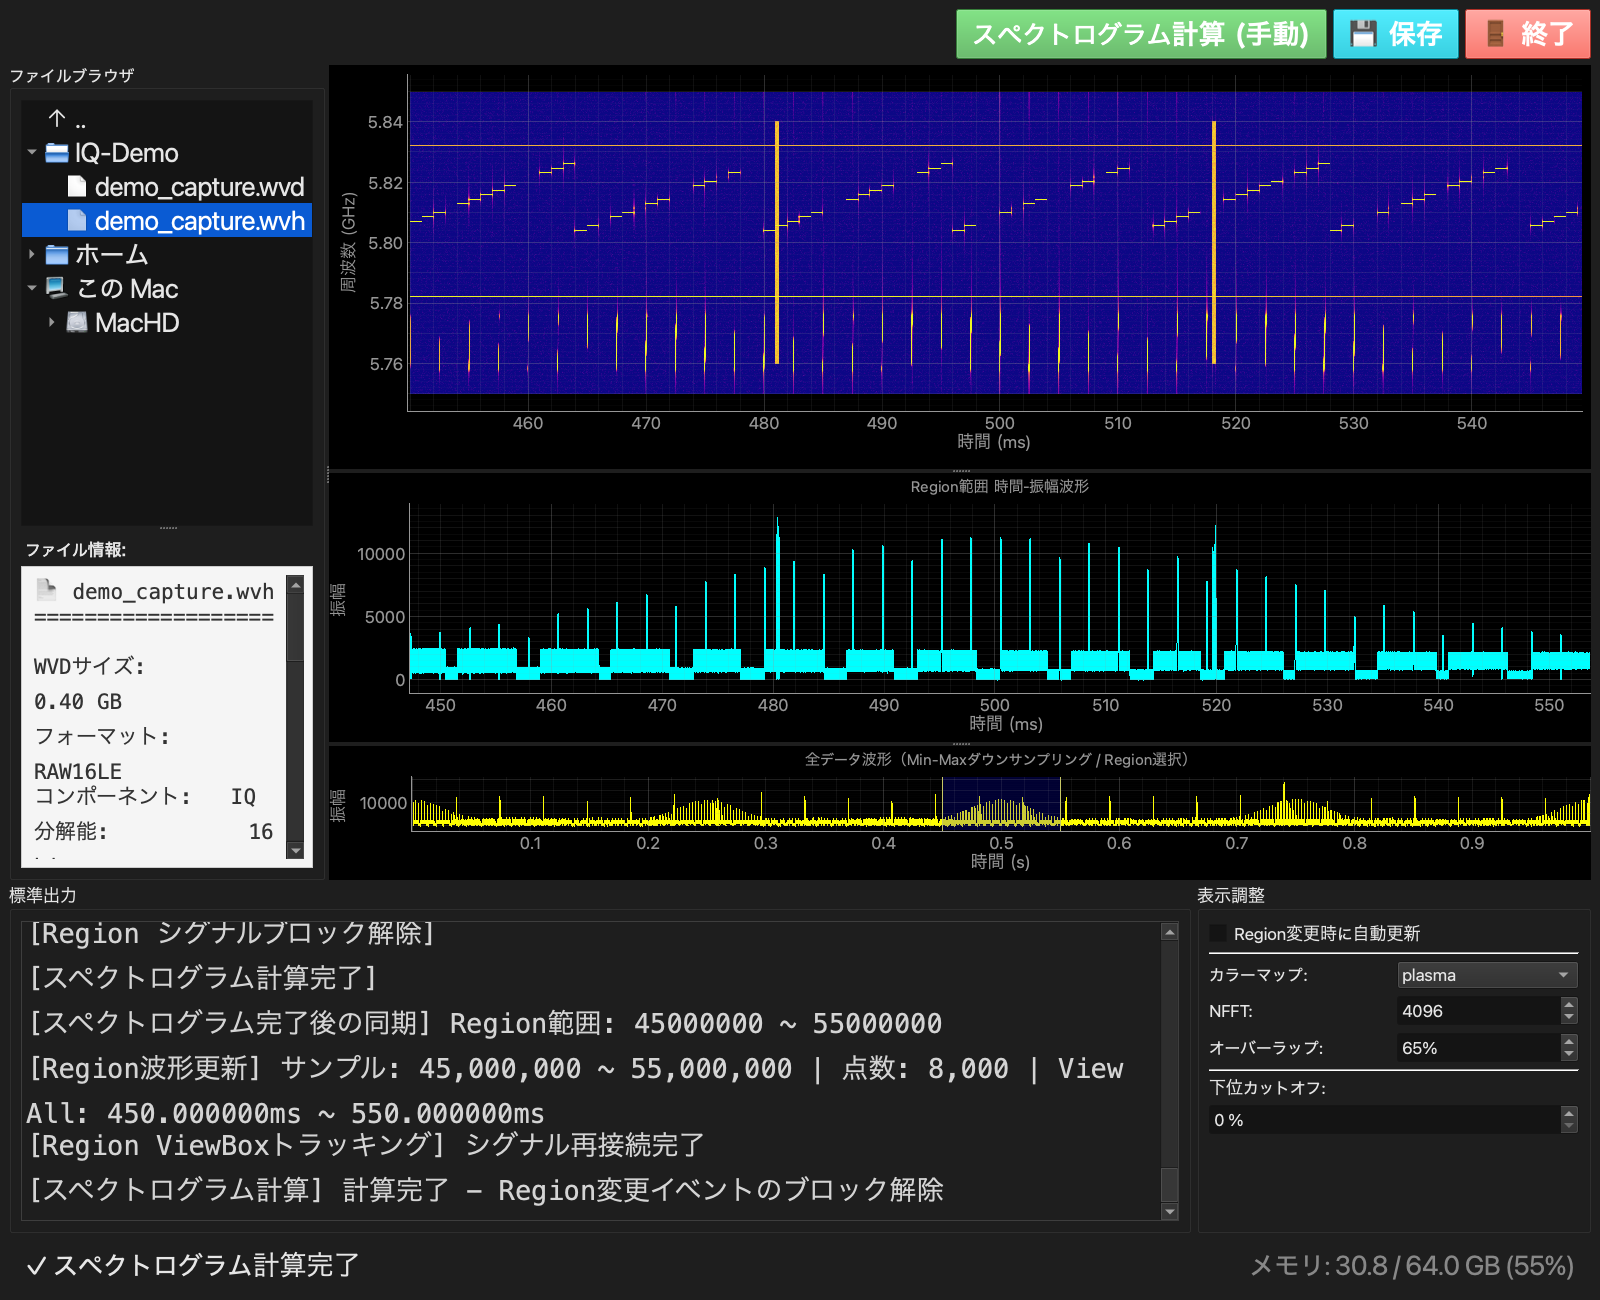
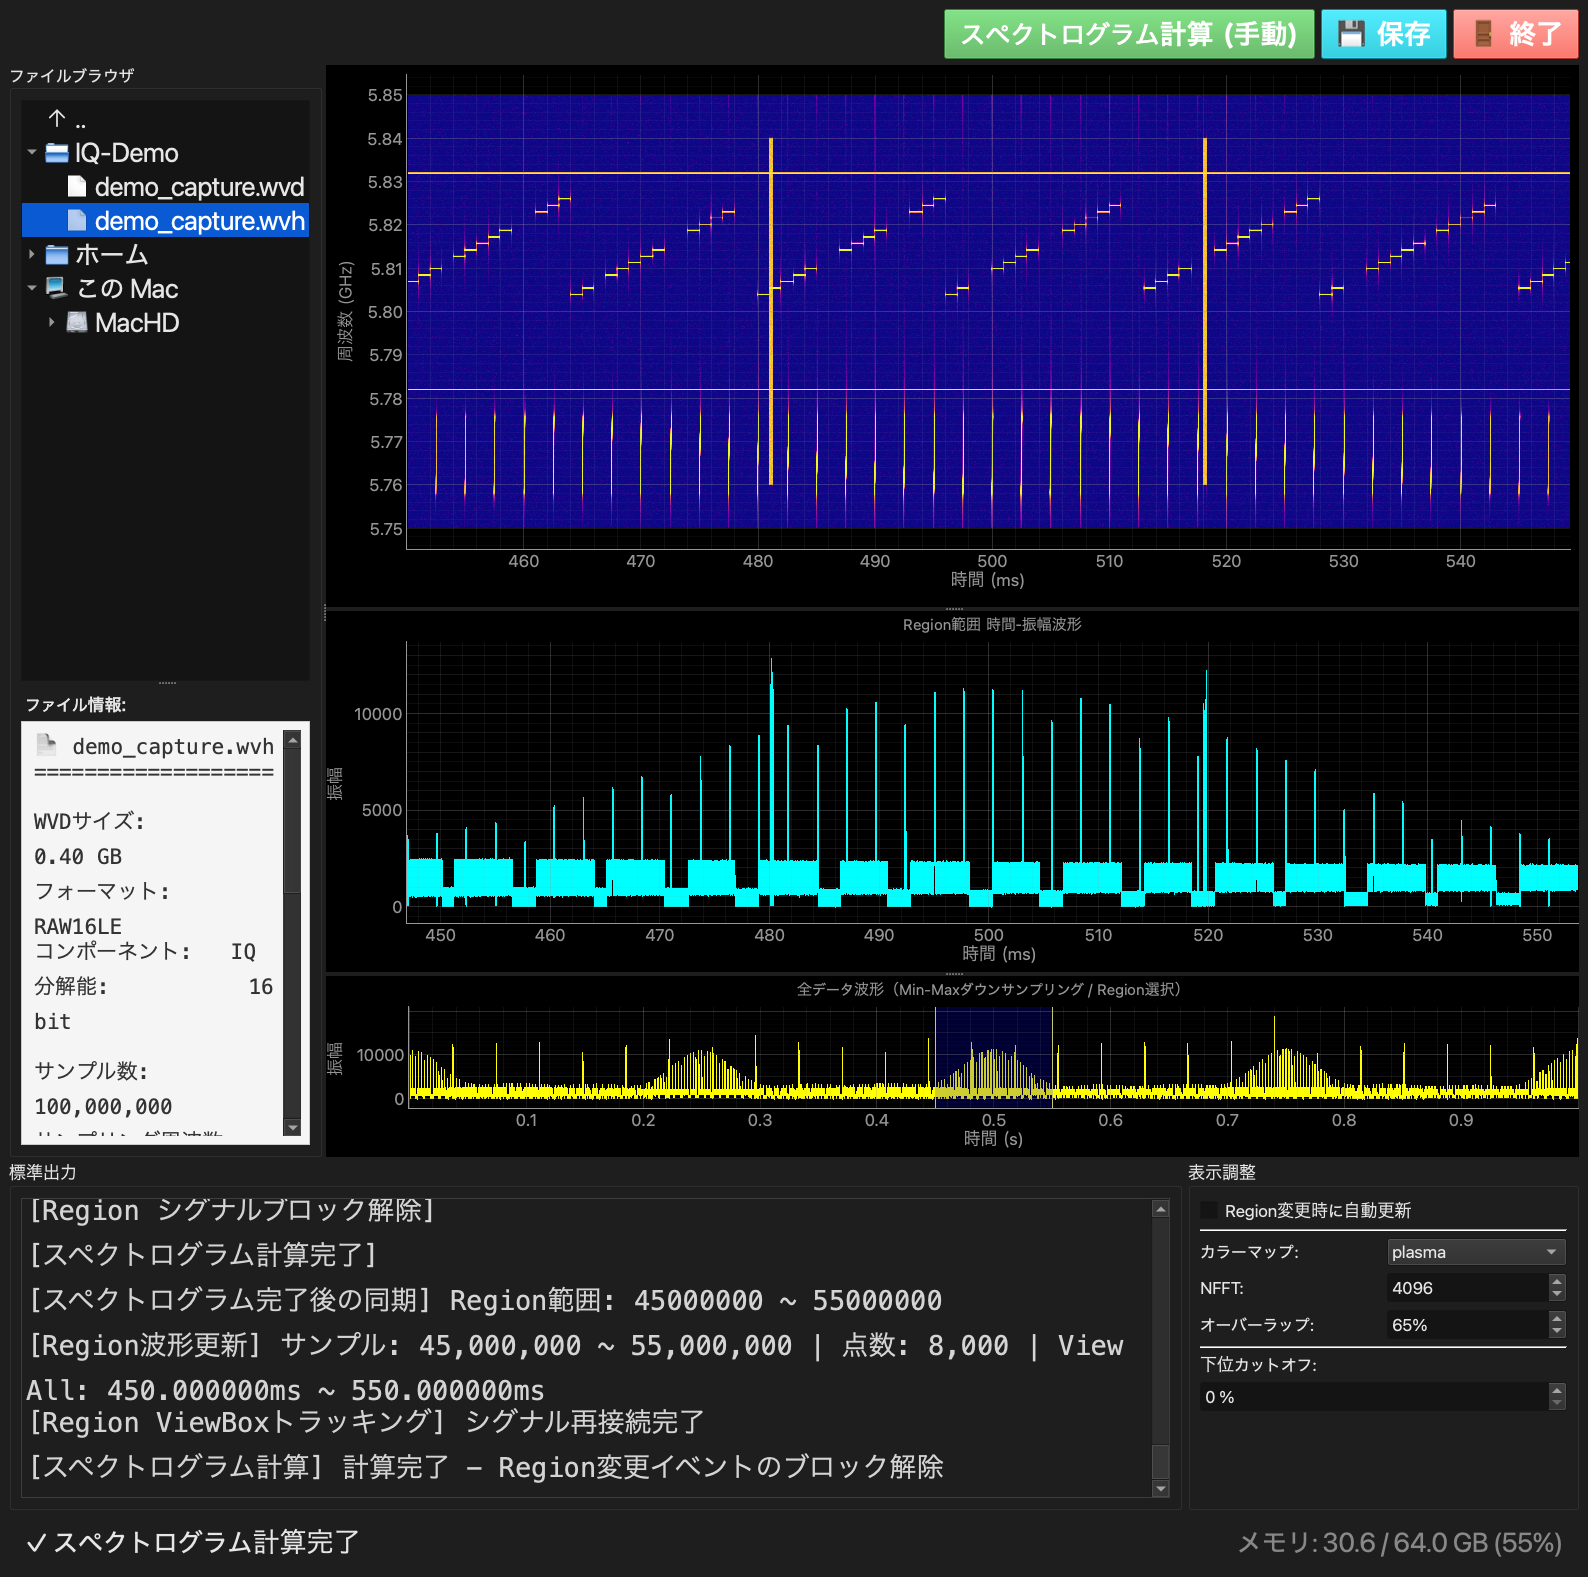
Fix empty-state axis labels; retake README screenshots near 1:1
- Empty plots no longer show "周波数 (mHz)", "時間 (x0.001)" or
  "時間 (ks)": the default ±0.5 view was SI-prefixed and the overview
  region started at (0, 100000) s. SpectrogramWidget.clear_axes() sets
  unit-less labels; manually scaled time axes (spectrogram, region) get
  no second SI prefix; the initial region is (0, 1) s.
- README screenshots retaken at 1588x1577 to match the real window's
  aspect ratio (was 1600x1300), giving each plot more height.

diff --git a/src/iq_analyzer/widgets/spectrogram.py b/src/iq_analyzer/widgets/spectrogram.py
@@ -142,11 +142,10 @@ class SpectrogramWidget(QWidget):
 
         self.graphics_widget = pg.GraphicsLayoutWidget()
         self.plot_item = self.graphics_widget.addPlot()
-        # Plot in Hz and let pyqtgraph pick the SI prefix: GHz for an RF centre
-        # frequency, MHz for baseband. (Fixing units="MHz" made the auto prefix
-        # render "kMHz" for 3.1 GHz recordings.)
-        self.plot_item.setLabel("left", "周波数", units="Hz")
-        self.plot_item.setLabel("bottom", "時間")
+        # Time values are already scaled to s/ms/μs/ns by update_spectrogram, so
+        # pyqtgraph must not stack its own SI prefix on top ("kms", "(x0.001)").
+        self.plot_item.getAxis("bottom").enableAutoSIPrefix(False)
+        self.clear_axes()
         self.plot_item.showGrid(x=True, y=True, alpha=0.3)
 
         self.img_item = pg.ImageItem()
@@ -159,6 +158,17 @@ class SpectrogramWidget(QWidget):
 
         layout.addWidget(self.graphics_widget)
         self.setLayout(layout)
+
+    def clear_axes(self) -> None:
+        """Axis labels for the empty state: no units, no SI prefix.
+
+        With units set, the default ±0.5 view of an empty plot is rendered as
+        "周波数 (mHz)" / "時間 (x0.001)", which reads as a real (and absurd) scale.
+        """
+        left = self.plot_item.getAxis("left")
+        left.enableAutoSIPrefix(False)
+        self.plot_item.setLabel("left", "周波数")
+        self.plot_item.setLabel("bottom", "時間")
 
     def set_colormap(self, colormap_name: str) -> None:
         """Apply one of :data:`AVAILABLE_COLORMAPS`. Unknown names are ignored."""
@@ -182,6 +192,11 @@ class SpectrogramWidget(QWidget):
         a sensible time-axis unit (s/ms/μs/ns) based on the maximum value.
         """
         freq_hz = frequencies + center_freq
+        # Plot in Hz and let pyqtgraph pick the SI prefix: GHz for an RF centre
+        # frequency, MHz for baseband. (Fixing units="MHz" made the auto prefix
+        # render "kMHz" for 3.1 GHz recordings.)
+        self.plot_item.getAxis("left").enableAutoSIPrefix(True)
+        self.plot_item.setLabel("left", "周波数", units="Hz")
 
         if times[-1] < 1e-6:
             time_scale = times * 1e9

diff --git a/src/iq_analyzer/ui/main_window.py b/src/iq_analyzer/ui/main_window.py
@@ -235,6 +235,9 @@ class RSIQViewer(QMainWindow):
         self.region_plot = pg.PlotWidget()
         self.region_plot.setLabel('left', '振幅')
         self.region_plot.setLabel('bottom', '時間', units='s')
+        # 時間は update_region_waveform で s/ms/μs に換算済み。pyqtgraph の
+        # SI接頭辞を重ねない（重ねると "kms" や "(x0.001)" になる）
+        self.region_plot.getAxis('bottom').enableAutoSIPrefix(False)
         self.region_plot.showGrid(x=True, y=True, alpha=0.3)
         self.region_plot.setTitle("Region範囲 時間-振幅波形")
         self.region_plot.setMinimumHeight(150)  # 最小高さ150px（マウス拡大で潰れないように）
@@ -287,8 +290,9 @@ class RSIQViewer(QMainWindow):
         self.overview_viewbox.sigRangeChanged.connect(self.on_overview_range_changed)
 
         # Region選択
+        # 初期値は (0, 1) 秒。(0, 100000) だと空の全体波形の軸が 0〜100 ks になっていた
         self.region = pg.LinearRegionItem(
-            values=(0, 100000),
+            values=(0, 1),
             brush=(100, 100, 255, 30),
             pen=pg.mkPen('b', width=2)
         )
@@ -514,8 +518,7 @@ class RSIQViewer(QMainWindow):
                         self.spectrogram_widget.img_item.setImage(empty_data)
                 # 軸ラベルをリセット
                 with contextlib.suppress(Exception):
-                    self.spectrogram_widget.plot_item.setLabel('bottom', '時間')
-                    self.spectrogram_widget.plot_item.setLabel('left', '周波数', units='Hz')
+                    self.spectrogram_widget.clear_axes()
 
             # ========================================
             # 2. Qtイベント処理

diff --git a/tests/test_widgets.py b/tests/test_widgets.py
@@ -230,3 +230,40 @@ def test_file_browser_reveal_through_symlinked_path(qapp, tmp_path: Path) -> Non
     panel = FileBrowserPanel(folder)
     assert panel.reveal(link / "rec" / "b.wv")
     assert panel.tree.currentItem().text(0) == "b.wv"
+
+
+def _axis_label(plot_item, side: str) -> str:
+    import re
+
+    return re.sub(r"<[^>]+>", "", plot_item.getAxis(side).labelString()).strip()
+
+
+def test_spectrogram_axes_empty_then_rf_then_baseband(qapp) -> None:
+    import numpy as np
+
+    from iq_analyzer.widgets.spectrogram import SpectrogramWidget
+
+    w = SpectrogramWidget()
+    w.resize(600, 400)
+    w.show()
+    qapp.processEvents()
+    # Empty: no misleading "(mHz)" / "(x0.001)".
+    assert _axis_label(w.plot_item, "left") == "周波数"
+    assert _axis_label(w.plot_item, "bottom") == "時間"
+
+    f = np.fft.fftshift(np.fft.fftfreq(256, 1 / 250e6))
+    t = 60 + np.arange(64) * 1e-3
+    img = np.zeros((256, 64), dtype=np.float32)
+
+    w.update_spectrogram(f, t, img, center_freq=3.175e9)
+    qapp.processEvents()
+    assert _axis_label(w.plot_item, "left") == "周波数 (GHz)"
+    assert _axis_label(w.plot_item, "bottom") == "時間 (s)"
+
+    w.update_spectrogram(f, t - 60, img, center_freq=0.0)  # < 1 s -> ms
+    qapp.processEvents()
+    assert _axis_label(w.plot_item, "left") == "周波数 (MHz)"
+    assert _axis_label(w.plot_item, "bottom") == "時間 (ms)"
+
+    w.clear_axes()
+    assert _axis_label(w.plot_item, "left") == "周波数"

diff --git a/CHANGELOG.md b/CHANGELOG.md
@@ -52,6 +52,11 @@ and this project adheres to [Semantic Versioning](https://semver.org/spec/v2.0.0
 
 ### Fixed
 
+- Empty-state axes read "周波数 (mHz)", "時間 (x0.001)" and "時間 (ks)": the
+  default ±0.5 view of an empty plot was SI-prefixed, and the overview region
+  started at (0, 100000) s. Empty plots now carry no units; manually scaled
+  time axes (spectrogram, region) no longer get a second SI prefix; the
+  initial region is (0, 1) s.
 - Spectrogram frequency axis read "kMHz" for RF recordings (3.1 GHz): values
   were plotted in MHz with units fixed to "MHz", and pyqtgraph's SI prefix
   stacked on top. The axis is now in Hz and shows GHz or MHz as appropriate.
